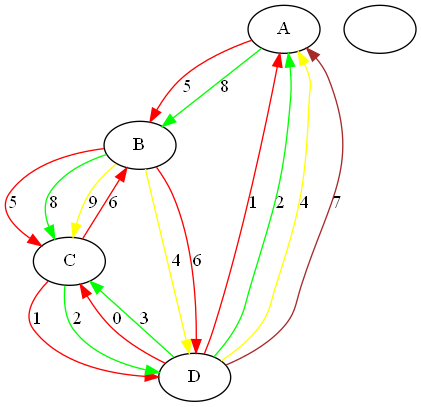
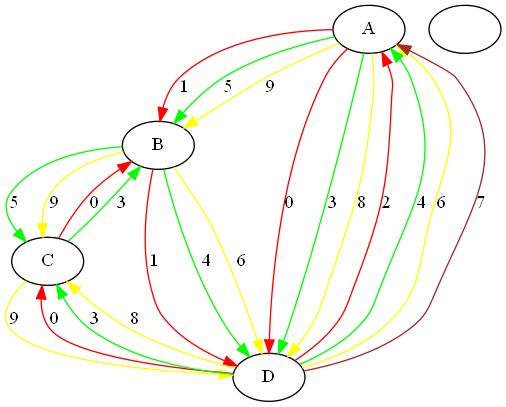
optimization

diff --git a/src/draw.py b/src/draw.py
@@ -55,7 +55,7 @@ if __name__ == "__main__":
         
     # demands = {0: Demand("B", "D"), 1: Demand("B", "C")}
     demands = topology.get_demands(G, amount=10)
-    types = [BDD.ET.LAMBDA, BDD.ET.DEMAND, BDD.ET.PATH, BDD.ET.EDGE, BDD.ET.SOURCE, BDD.ET.TARGET, BDD.ET.NODE]
+    types = [BDD.ET.LAMBDA, BDD.ET.DEMAND,  BDD.ET.EDGE, BDD.ET.SOURCE, BDD.ET.TARGET, BDD.ET.NODE, BDD.ET.PATH]
 
     rwa = RWAProblem(G, demands, wavelengths=5, ordering=types)
     print(demands)
